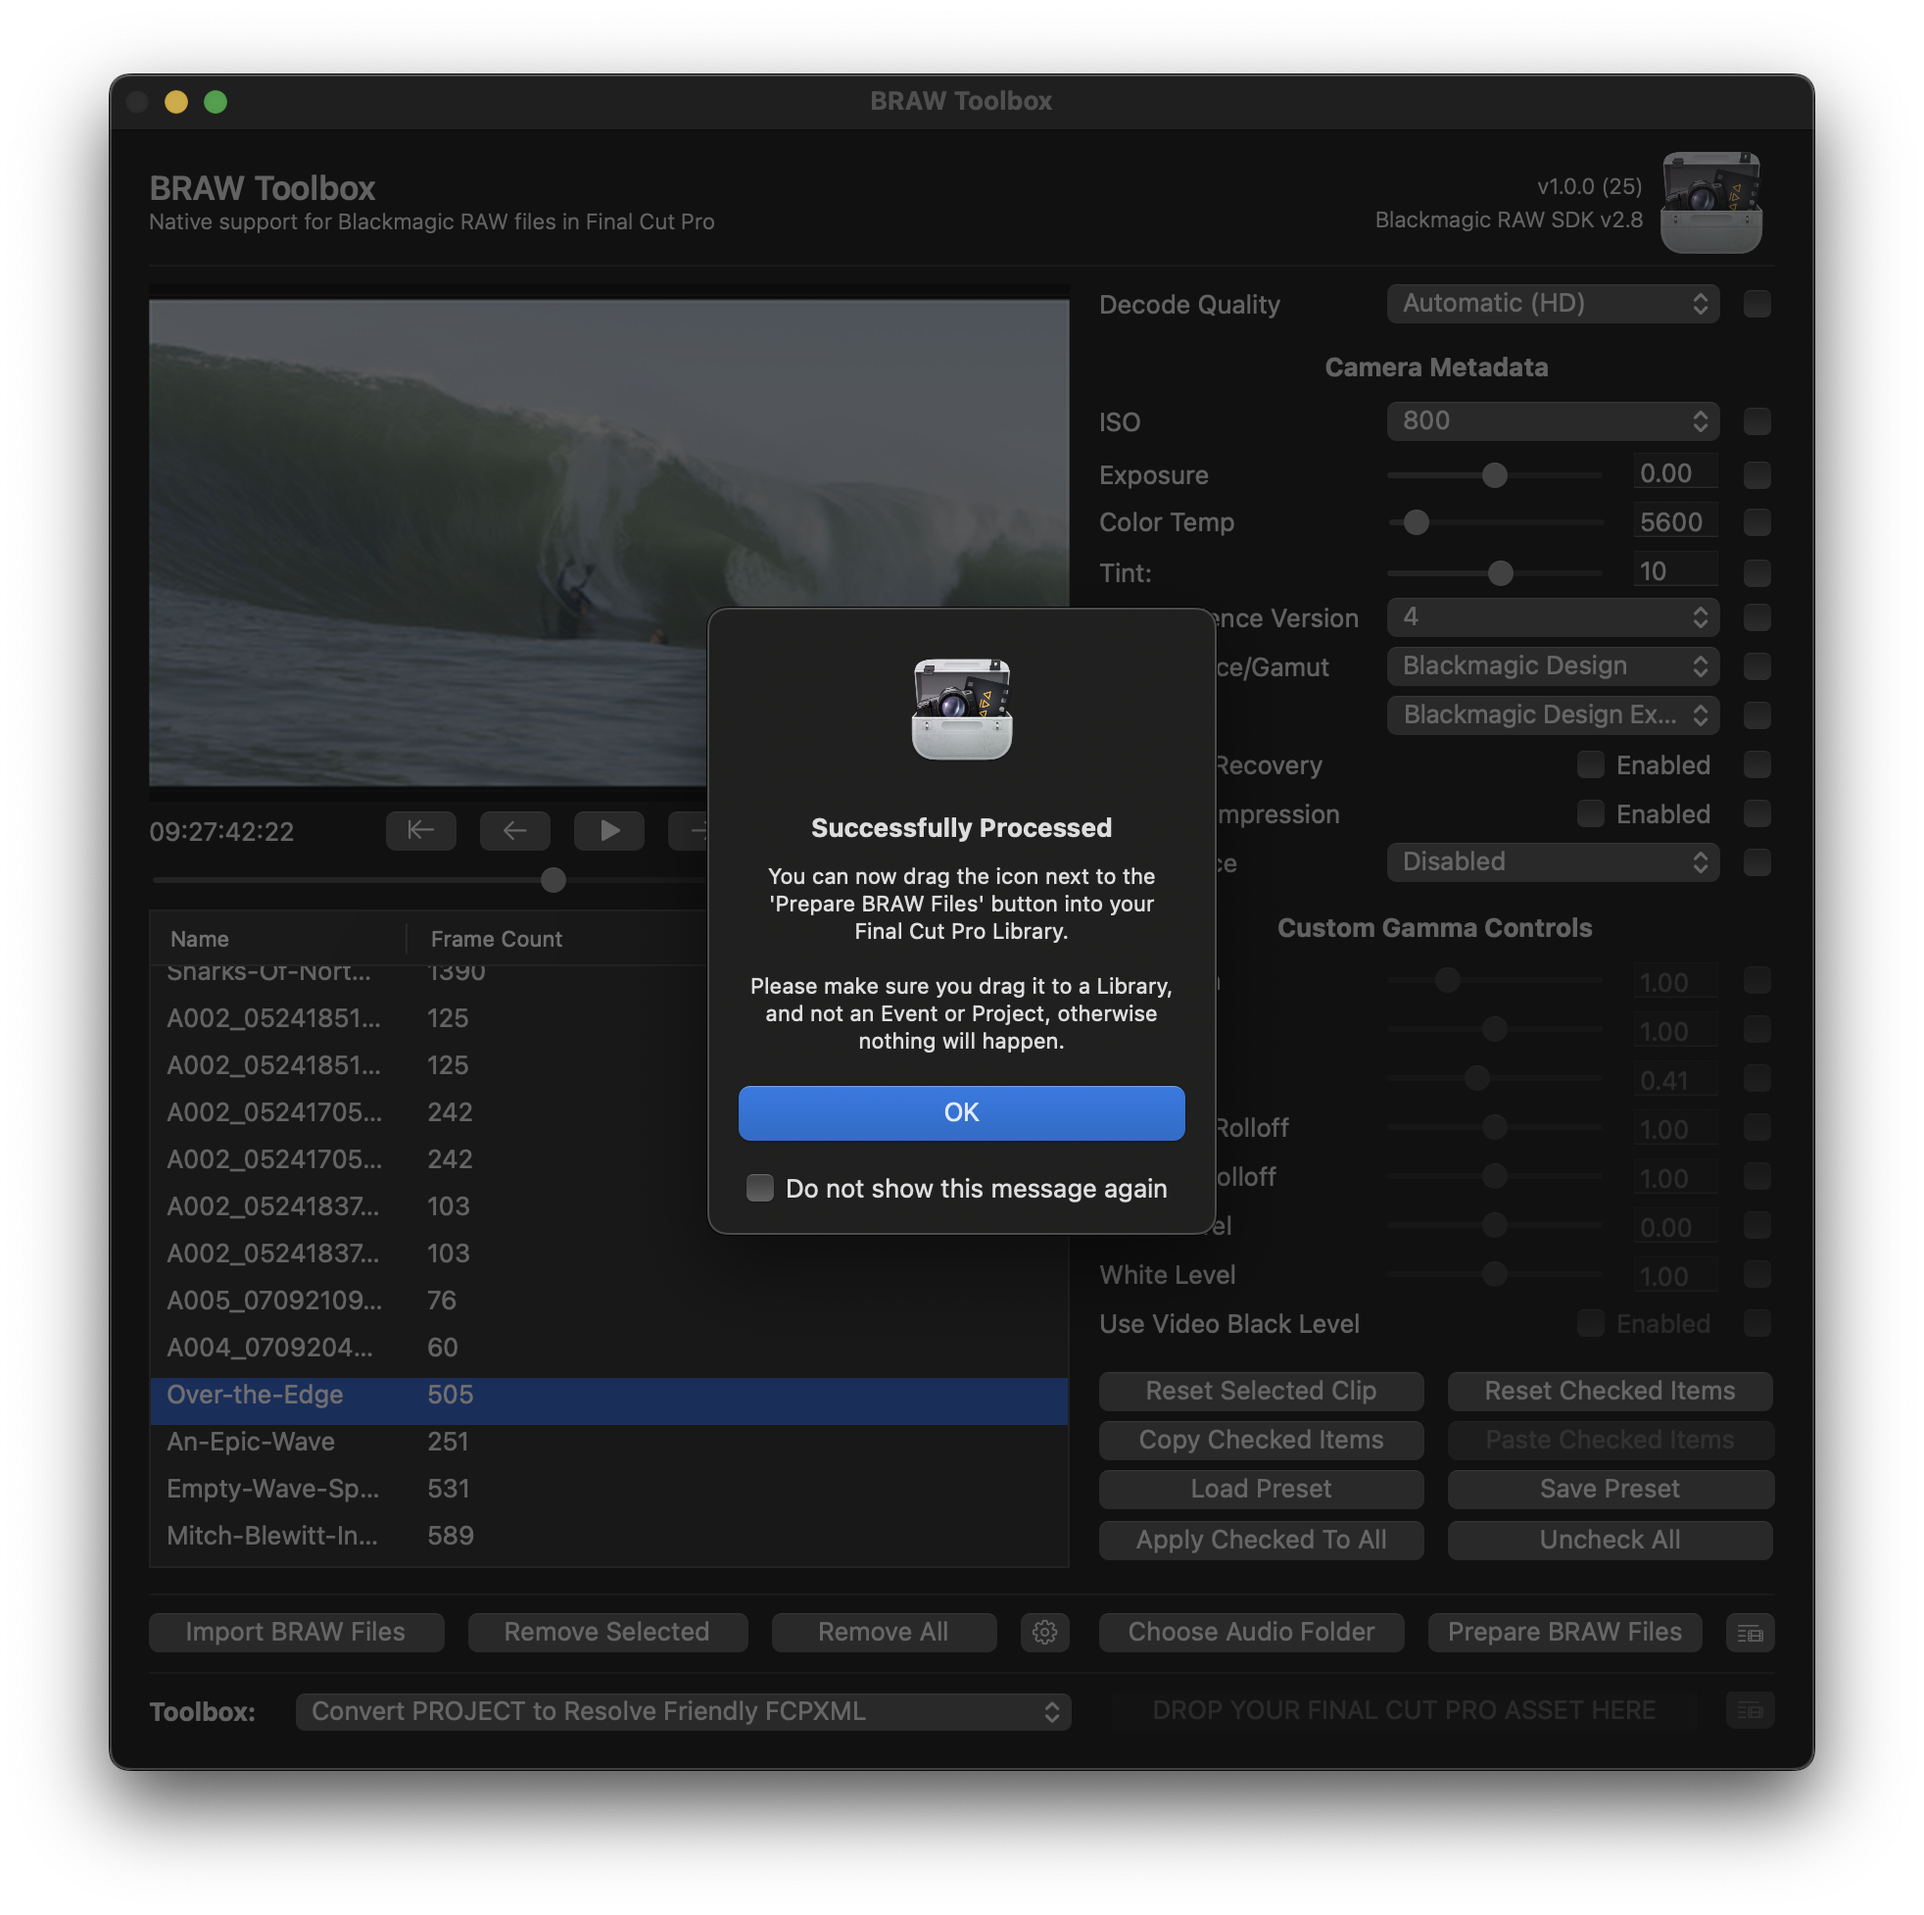
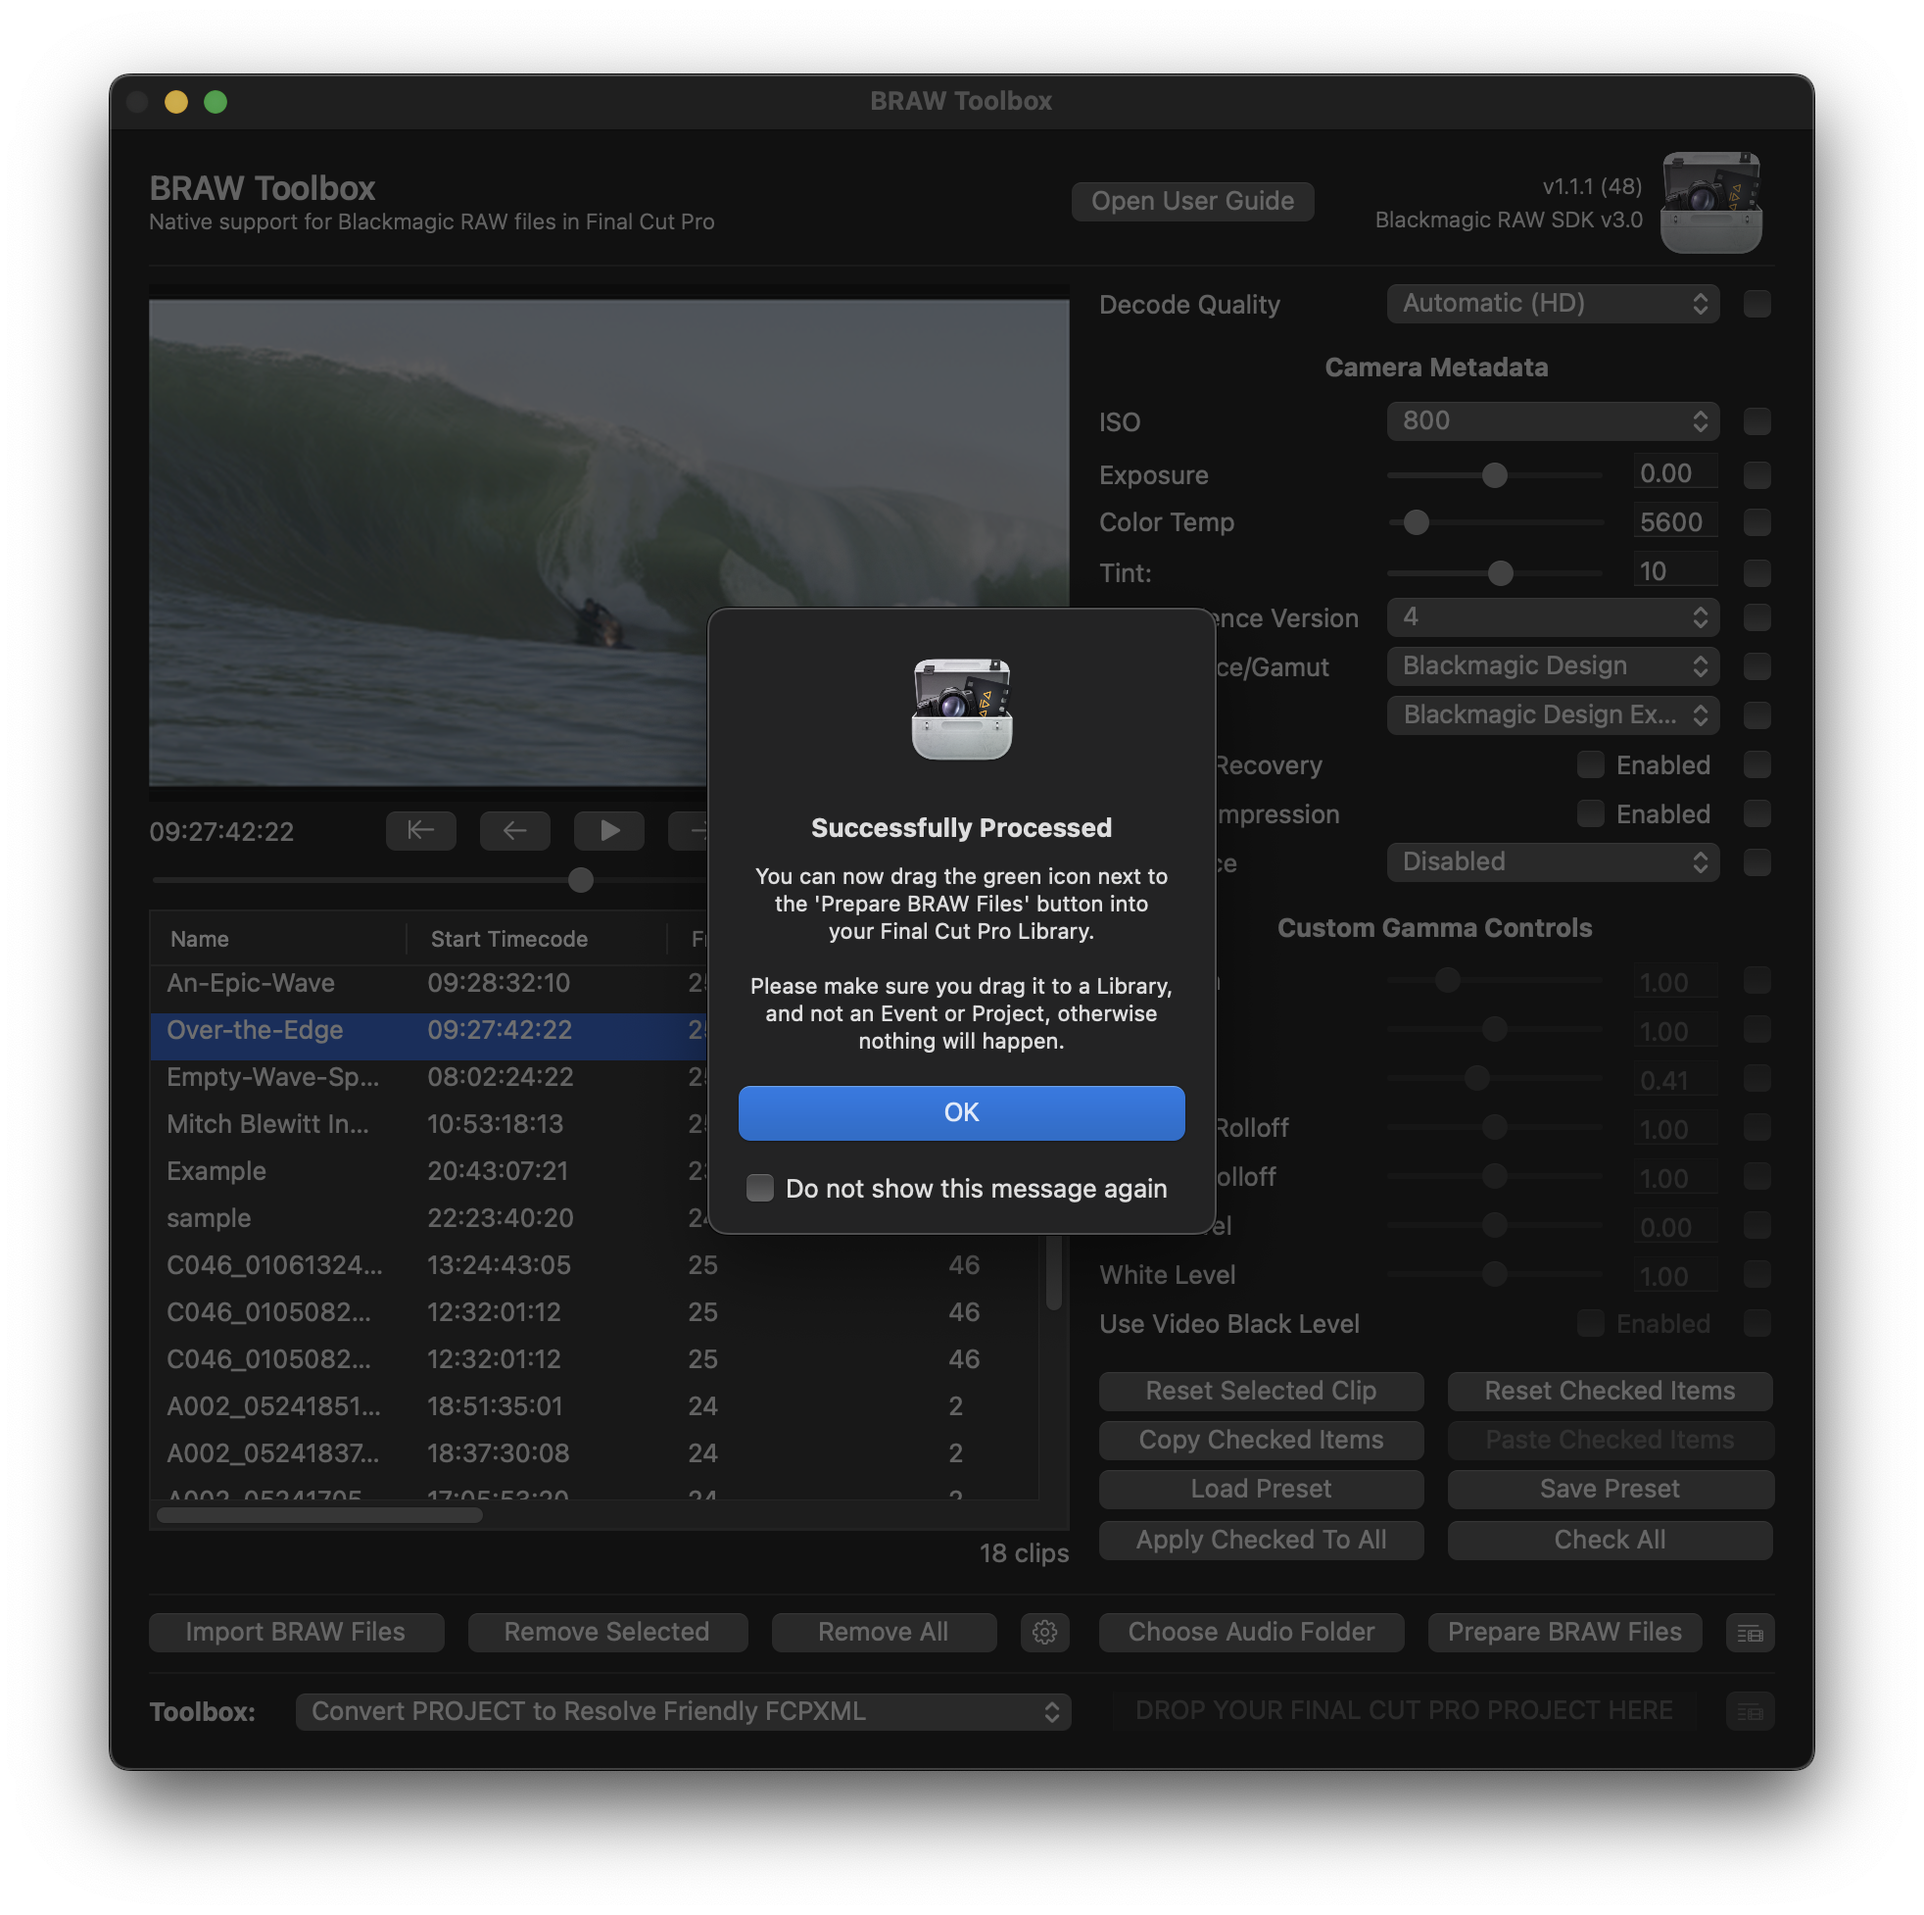
Updated Documentation
- Preparing for v1.1.1 release.
- Updated screenshots.
- Added a "how to use" section instead of having it all in the "Installation" section.

diff --git a/docs/how-to-use.md b/docs/how-to-use.md
@@ -1,0 +1,79 @@
+# How To Use
+
+Once [installed](https://brawtoolbox.io/installation/) you can access BRAW Toolbox from the Workflow Extension button in Final Cut Pro:
+
+![Screenshot](static/install-10.png)
+
+You can also access it via the **Window > Extensions > BRAW Toolbox** menu item:
+
+![Screenshot](static/install-11.png)
+
+When you click either of those options it opens the BRAW Toolbox Workflow Extension:
+
+![Screenshot](static/install-12.png)
+
+To import some BRAW clips, click the **Import BRAW Files** button and select some BRAW clips.
+
+> **TIP:** You can also drag-and-drop BRAW files from Finder to the File List.
+
+![Screenshot](static/install-13.png)
+
+You can now adjust all the metadata as required. There are tools for easily copy and pasting RAW parameters between clips, as well as saving Metadata Presets.
+
+Whilst BRAW Toolbox can play back BRAW video files natively, to handle audio, it "extracts" the audio prior to sending to Final Cut Pro. You should press the **Choose Audio Folder** button to select the destination folder for these audio files.
+
+Once you've tweaked any metadata settings, you can press the **Prepare BRAW Files** to get everything ready for Final Cut Pro.
+
+> **NOTE:** If you haven't already pressed the **Choose Audio Folder**, it'll prompt you regardless the first time you click **Prepare BRAW Files**.
+
+Whilst it's processing you'll see this:
+
+![Screenshot](static/install-23.png)
+
+Once it's processed, you'll get the below alert explaining what to do next.
+
+> **TIP:** You can tick **Do not show this message again** to speed things up next time (and press **Reset Dialog Warning** via the Settings button if you want to bring this back).
+
+![Screenshot](static/install-14.png)
+
+Essentially, you need to drag this green button:
+
+![Screenshot](static/install-15.png)
+
+...to your Final Cut Pro **Library**.
+
+> **IMPORTANT:** You need to drag to a **Library** - not an **Event** or a **Project**, otherwise nothing will happen.
+
+This will create a new Keyword Collection with your BRAW clips:
+
+![Screenshot](static/install-16.png)
+
+You can now drag these Multicam Clips into a Project/Timeline and start editing, as you would normal video clips.
+
+![Screenshot](static/install-24.png)
+
+To modify the metadata of a BRAW clip, you can double click on one of the Multicam Clips, to open it in the **Angle Editor**:
+
+![Screenshot](static/install-25.png)
+
+You can then double click on the Synchronised Clip on the first angle:
+
+![Screenshot](static/install-26.png)
+
+You can now click on the Black Generator on the Primary Storyline, and access the BRAW Toolbox effect in the Effects section of the Inspector:
+
+> **IMPORTANT:** Whilst you can modify the RAW parameters you shouldn't ever "cut" or change the timing of the Generator contained within the Synchronised Clip.
+
+![Screenshot](static/install-17.png)
+
+Click the **Show Parameters** button to show the parameters. You'll only have to do this once per clip, as Final Cut Pro will remember it's been opened.
+
+![Screenshot](static/install-18.png)
+
+You can now manipulate the RAW metadata as required.
+
+Frame Metadata and Custom Gamma Controls are also key-frame-able.
+
+> **TIP:** You can only access Custom Gamma Controls if you have the **Blackmagic Design Custom** gamma parameter selected.
+
+You can now edit BRAW files like any other camera media in Final Cut Pro. Woohoo!

diff --git a/docs/installation.md b/docs/installation.md
@@ -84,69 +84,4 @@ After clicking **OK**, you can now click **Launch Final Cut Pro**, which will cl
 
 > **IMPORTANT:** You should run the BRAW Toolbox application again after each update, to make sure you're using the latest Motion Templates, Metadata View, and LUTs.
 
-Once Final Cut Pro is launched you can access BRAW Toolbox via the **Workflow Extension** button:
-
-![Screenshot](static/install-10.png)
-
-You can also access it via the **Window > Extensions > BRAW Toolbox** menu item:
-
-![Screenshot](static/install-11.png)
-
-When you click either of those options it opens the BRAW Toolbox Workflow Extension:
-
-![Screenshot](static/install-12.png)
-
-To import some BRAW clips, click the **Import BRAW Files** button and select some BRAW clips.
-
-> **TIP:** You can also drag-and-drop BRAW files from Finder to the File List.
-
-![Screenshot](static/install-13.png)
-
-You can now adjust all the metadata as required. There are tools for easily copy and pasting RAW parameters between clips, as well as saving Metadata Presets.
-
-Whilst BRAW Toolbox can play back BRAW video files natively, to handle audio, it "extracts" the audio prior to sending to Final Cut Pro. You should press the **Choose Audio Folder** button to select the destination folder for these audio files.
-
-Once you've tweaked any metadata settings, you can press the **Prepare BRAW Files** to get everything ready for Final Cut Pro.
-
-> **NOTE:** If you haven't already pressed the **Choose Audio Folder**, it'll prompt you regardless the first time you click **Prepare BRAW Files**.
-
-Whilst it's processing you'll see this:
-
-![Screenshot](static/install-23.png)
-
-Once it's processed, you'll get the below alert explaining what to do next.
-
-> **TIP:** You can tick **Do not show this message again** to speed things up next time (and press **Reset Dialog Warning** via the Settings button if you want to bring this back).
-
-![Screenshot](static/install-14.png)
-
-Essentially, you need to drag this green button:
-
-![Screenshot](static/install-15.png)
-
-...to your Final Cut Pro **Library**.
-
-> **IMPORTANT:** You need to drag to a **Library** - not an **Event** or a **Project**, otherwise nothing will happen.
-
-This will create a new Keyword Collection with your BRAW clips:
-
-![Screenshot](static/install-16.png)
-
-You can now drag these Synchronised Clips into a Project/Timeline and start editing, as you would normal video clips.
-
-> **IMPORTANT:** Whilst you can modify the RAW parameters, as explained next, you shouldn't ever "cut" or change the timing of the Generator contained within the Synchronised Clip.
-
-To modify the metadata of a BRAW clip, you can double click on one of the synchronised clips, click on the black video clip, then access the BRAW Toolbox effect in the Effects section of the Inspector:
-
-![Screenshot](static/install-17.png)
-
-Click the **Show Parameters** button to show the parameters. You'll only have to do this once per clip, as Final Cut Pro will remember it's been opened.
-
-![Screenshot](static/install-18.png)
-
-Frame Metadata and Custom Gamma Controls are key-frame-able.
-
-> **TIP:** You can only access Custom Gamma Controls if you have the **Blackmagic Design Custom** gamma parameter selected.
-
-You can now edit BRAW files like any other camera media in Final Cut Pro. Woohoo!
-
+You can learn how to use BRAW Toolbox [here](https://brawtoolbox.io/how-to-use/)

diff --git a/docs/release-notes.md b/docs/release-notes.md
@@ -1,5 +1,18 @@
 # Release Notes
 
+### 1.1.1 (48)
+
+**🎉 Released:**
+- 9th May 2023
+
+**🔨 Improvements:**
+- **Create Multicam Clips** is now enabled by default. When disabling this setting, you're now also presented with some warning information. This is due to a bug in Final Cut Pro 10.6.5 that sometimes incorrectly plays the wrong frames in Synchronised Clips. We now recommend always using Multicam Clips, unless you're planning to create new Multicam Clips by either manually creating them in Final Cut Pro, or using a third-party tool such as Sync-N-Link.
+
+**🐞 Bug Fixes:**
+- Fixed a bug introduced in v1.1.0 where error messages are incorrectly flipped vertically.
+
+---
+
 ### 1.1.0 (47)
 
 **🎉 Released:**
